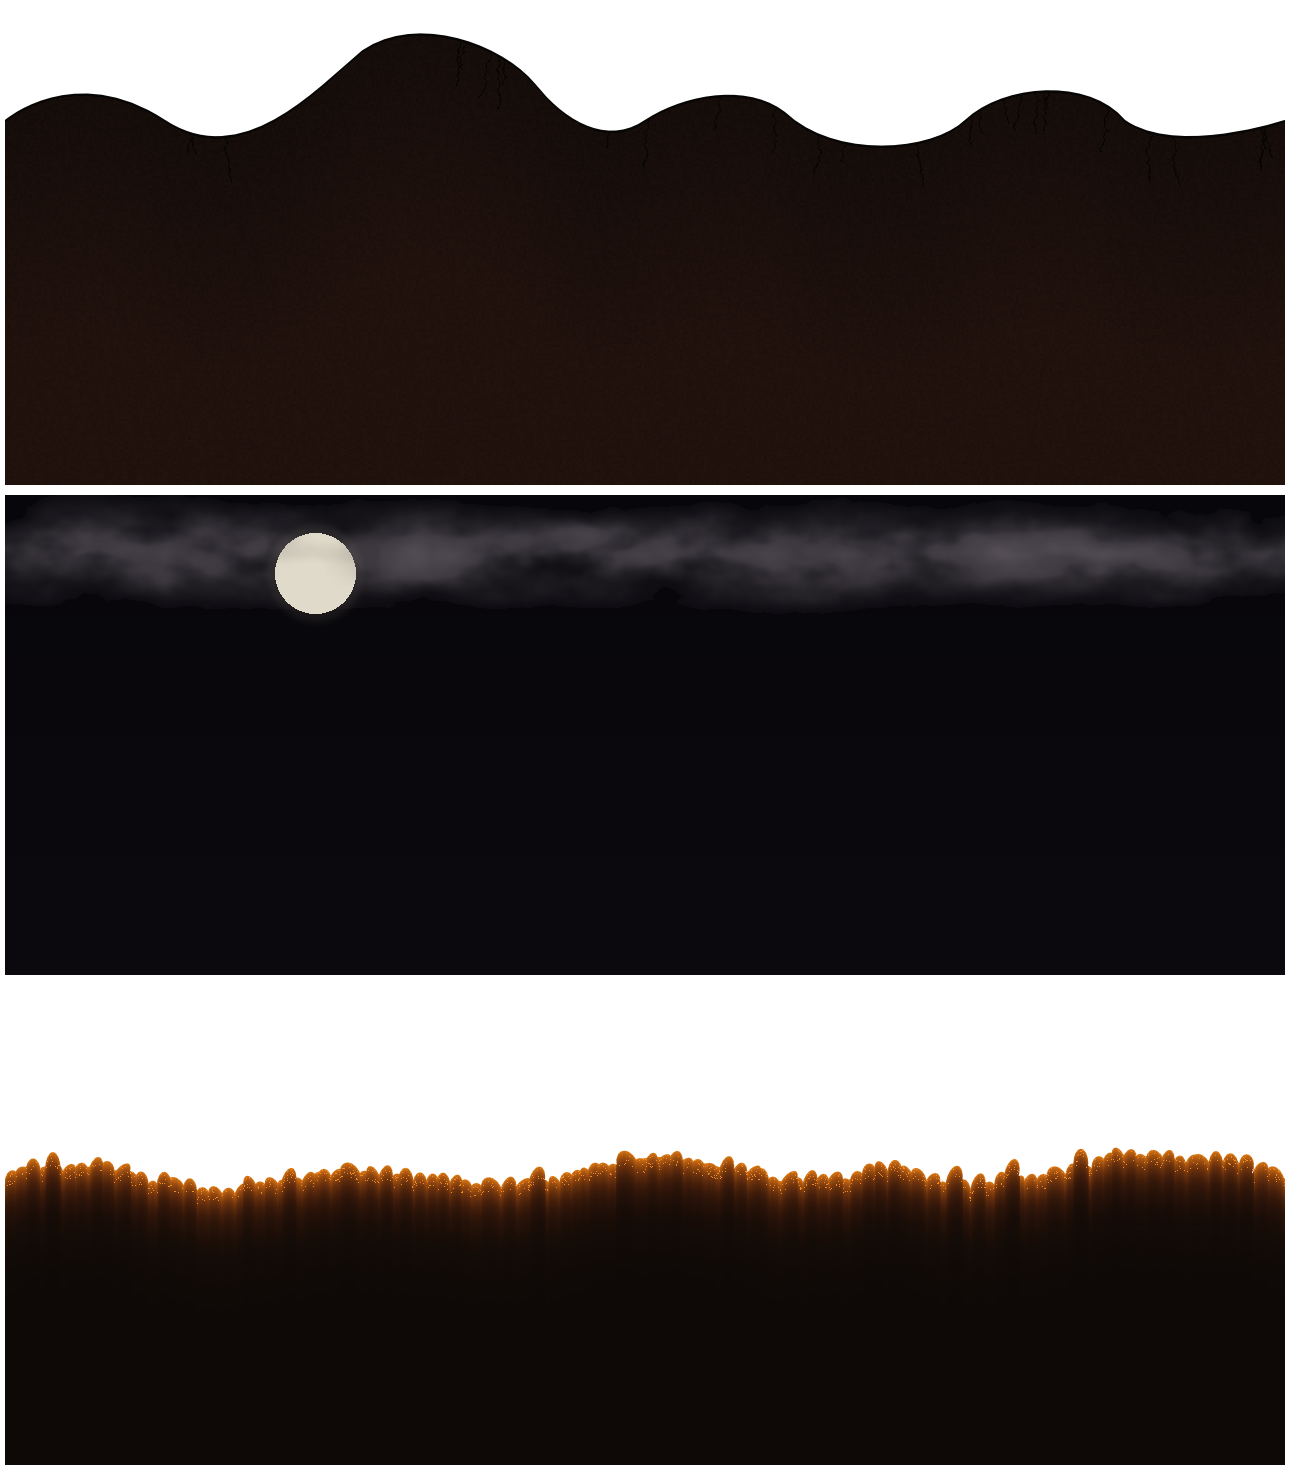
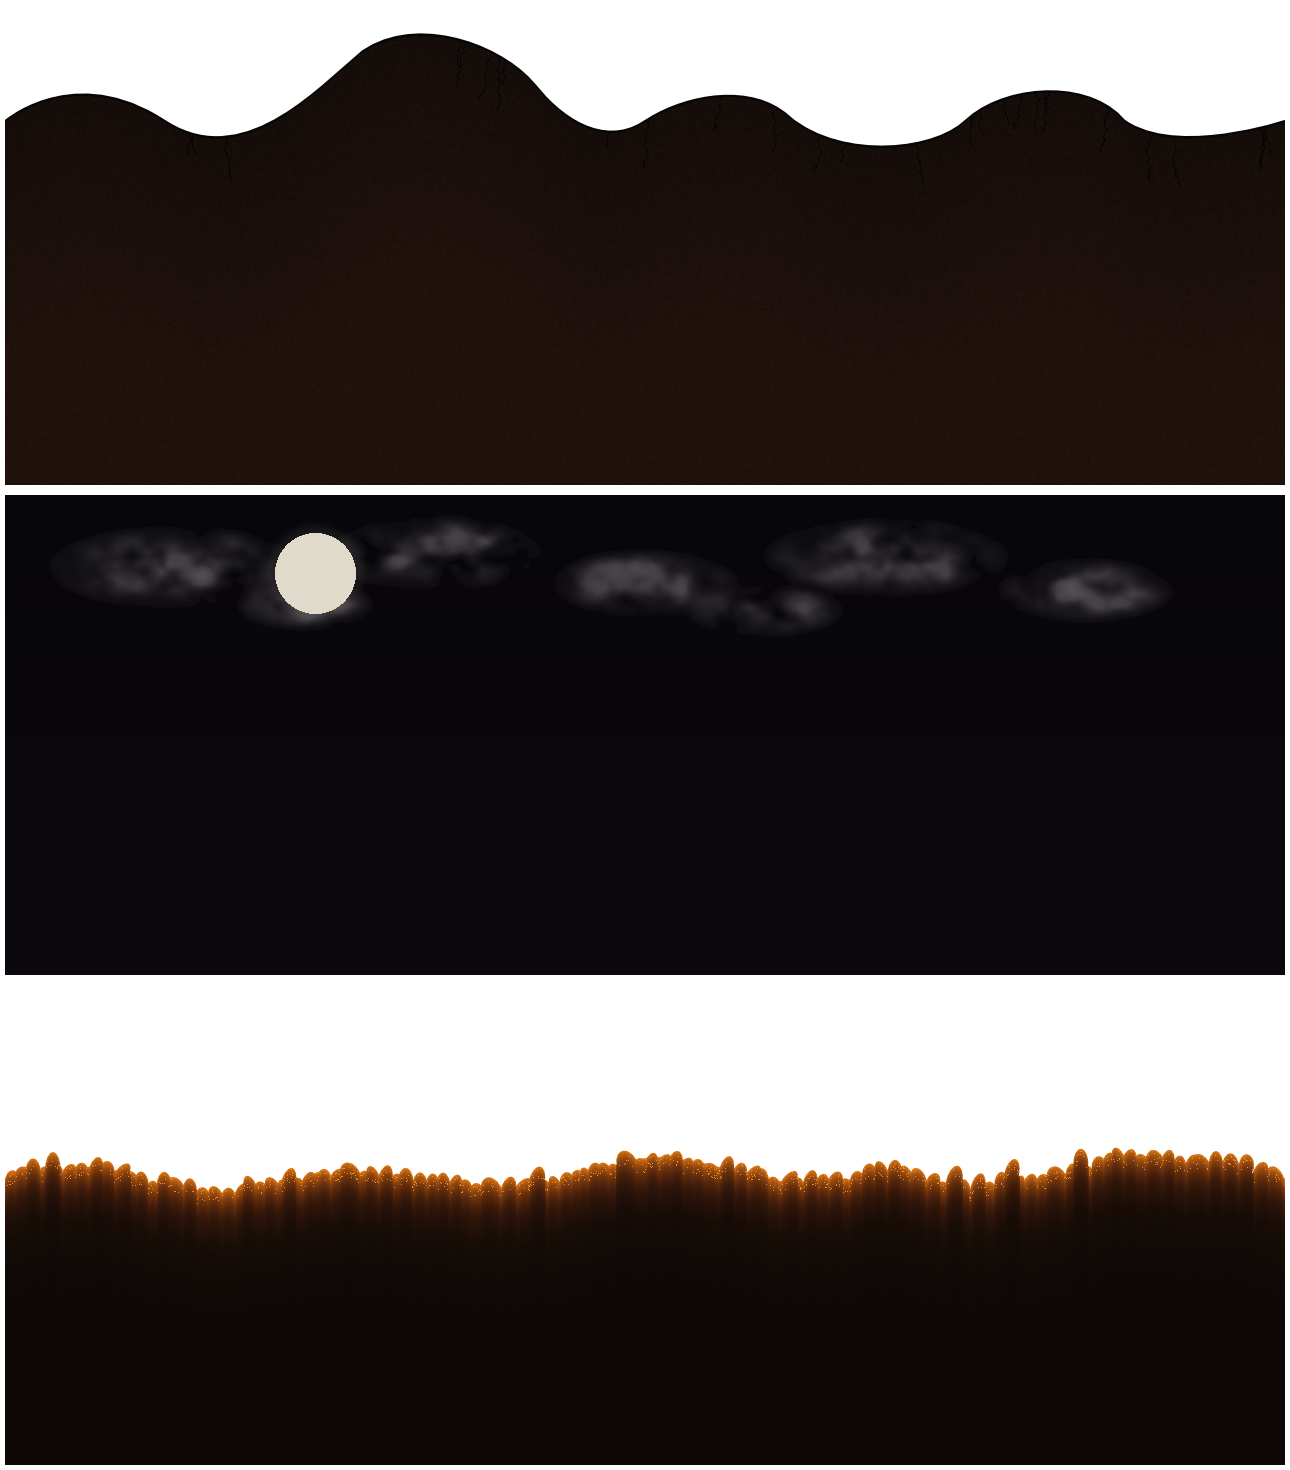
Skull Racer: eliminate minimap self-crossing properly, add start/finish tick, rebuild sky
Minimap: the heading-correction fix (previous commit) still left a
real self-crossing -- confirmed by the user's screenshot pointing right
at it. First correction attempt (nudging close-together POINTS apart
directly) made it worse: moving a point changes the two segments
touching it, which can cross other, previously-fine segments nearby --
fixing one near-miss created 11 new ones.

Real fix: when segment (i,i+1) actually crosses or comes within a
minimum separation of segment (j,j+1), the points strictly BETWEEN
them form a loop pinched shut at that point. Shrinking every point in
that loop toward the pinch point -- without moving the crossing
segments' own endpoints at all -- can only pull the loop further
inside its own boundary, never push it into anything new. Iterated
until no crossings or near-misses remain. Verified with the same
rigorous segment-intersection + closest-approach check used to
diagnose the original bug report: 0 true crossings, and the one
remaining sub-pixel coincidence a script flags turns out (checked
visually at full zoom) to be the shrunk loop having collapsed onto the
boundary line itself, not a second visible strand touching it.

Also added a white start/finish tick on the minimap, perpendicular to
the track's direction at the start point -- same idea as the real
road's own start-line marker (COLORS.START in resetRoad()).

images/background/sky.png: user's own fix for a seam artifact,
[…]

Changed region(s): [[0.2171, 0.3367, 1.0, 0.4286], [0.0, 0.3367, 0.2171, 0.398]]

diff --git a/racing/index.html b/racing/index.html
@@ -174,6 +174,7 @@
     }
     #minimap svg { display: block; width: 100%; height: 100%; }
     #minimap-track { fill: none; stroke: #00c8a0; stroke-width: 2; stroke-linejoin: round; opacity: 0.85; }
+    #minimap-start { stroke: #ffffff; stroke-width: 1.5; }
     #minimap-dot   { fill: #ffcc4d; stroke: #07111d; stroke-width: 0.75; }
 
     #touch-controls { display: none; } /* shown only in the mobile media query below */
@@ -252,6 +253,7 @@
         <div id="minimap">
           <svg viewBox="0 0 100 100" preserveAspectRatio="xMidYMid meet">
             <polyline id="minimap-track" points="" />
+            <line id="minimap-start" x1="0" y1="0" x2="0" y2="0" />
             <circle id="minimap-dot" r="3.5" cx="0" cy="0" />
           </svg>
         </div>
@@ -431,6 +433,7 @@
     //=========================================================================
 
     var minimapTrack  = Dom.get('minimap-track');
+    var minimapStart  = Dom.get('minimap-start');
     var minimapDot    = Dom.get('minimap-dot');
     var minimapPoints = []; // one entry per segment index: { mx, my } in the SVG's own 0-100 viewBox space
 
@@ -510,15 +513,112 @@
       var offY   = 4 + (92 - rangeZ * scale) / 2;
 
       minimapPoints = new Array(closed.length);
-      var outline = [];
+      var outline = []; // decimated (1-in-4) numeric {mx,my}, thousands of segments is needlessly heavy for an SVG attribute
       for (n = 0 ; n < closed.length ; n++) {
         var mx = offX + (closed[n].x - minX) * scale;
         var my = offY + (closed[n].z - minZ) * scale;
         minimapPoints[n] = { mx: mx, my: my };
-        if (n % 4 === 0) outline.push(mx.toFixed(1) + ',' + my.toFixed(1)); // decimated -- thousands of segments is needlessly heavy for an SVG attribute, 1-in-4 is still plenty smooth
+        if (n % 4 === 0) outline.push({ mx: mx, my: my });
       }
-      outline.push(outline[0]); // close the drawn line back to its own start
-      minimapTrack.setAttribute('points', outline.join(' '));
+
+      // Even with heading corrected above, this track's own curve sequence
+      // still brings two DIFFERENT, far-apart stretches of road within a
+      // hair of each other at one spot (confirmed stable across a wide
+      // sweep of HEADING_SCALE values -- not a tuning artifact, an actual
+      // near-miss in the reconstructed shape). At this map's tiny size that
+      // reads as the track crossing itself. Nudge any such pair apart
+      // directly, in this decimated display copy only (not minimapPoints,
+      // which the dot uses) -- the dot being a fraction of a pixel off the
+      // drawn line for the few frames it passes through that one spot is
+      // imperceptible; distorting the "true" reconstructed path everywhere
+      // else to avoid it would not be worth that trade.
+      // Tried nudging close-together POINTS apart directly first -- doesn't
+      // work, moving a point changes the two segments touching it, which
+      // can cross other, previously-fine segments nearby. Fixing one
+      // near-miss that way created 11 new ones. What's actually safe:
+      // when segment (i,i+1) truly crosses segment (j,j+1), the points
+      // strictly between them form a loop pinched shut at that crossing.
+      // Shrinking every point in that loop toward the crossing point
+      // itself (not moving the crossing segments' own endpoints at all)
+      // can only pull the loop further inside its own boundary -- it
+      // cannot introduce a new crossing with anything outside that loop.
+      function segIntersection(a1, a2, b1, b2) {
+        function cross(o,a,b) { return (a.mx-o.mx)*(b.my-o.my) - (a.my-o.my)*(b.mx-o.mx); }
+        var d1 = cross(b1,b2,a1), d2 = cross(b1,b2,a2), d3 = cross(a1,a2,b1), d4 = cross(a1,a2,b2);
+        if (!(((d1>0&&d2<0)||(d1<0&&d2>0)) && ((d3>0&&d4<0)||(d3<0&&d4>0)))) return null;
+        var x1=a1.mx,y1=a1.my,x2=a2.mx,y2=a2.my,x3=b1.mx,y3=b1.my,x4=b2.mx,y4=b2.my;
+        var denom = (x1-x2)*(y3-y4) - (y1-y2)*(x3-x4);
+        var t = ((x1-x3)*(y3-y4) - (y1-y3)*(x3-x4)) / denom;
+        return { mx: x1 + t*(x2-x1), my: y1 + t*(y2-y1) };
+      }
+      function pointToSeg(p, a, b) {
+        var abx=b.mx-a.mx, aby=b.my-a.my;
+        var t = ((p.mx-a.mx)*abx+(p.my-a.my)*aby)/(abx*abx+aby*aby||1);
+        t = Math.max(0, Math.min(1, t));
+        return { mx: a.mx+t*abx, my: a.my+t*aby };
+      }
+      // Actual crossings (segIntersection) covers a true X. A near-miss
+      // that never technically crosses -- two DIFFERENT stretches of road
+      // just passing close by coincidence -- reads exactly the same as a
+      // crossing at this map's tiny size and the line's own stroke width,
+      // so treat "comes within MIN_SEP" the same as "crosses" for pinch
+      // purposes, using the closest approach between the two segments as
+      // the pinch point instead of a true intersection point.
+      var MIN_SEP = 2.5;
+      function segPinchPoint(a1, a2, b1, b2) {
+        var ip = segIntersection(a1, a2, b1, b2);
+        if (ip) return ip;
+        var candidates = [
+          { p: a1, q: pointToSeg(a1, b1, b2) }, { p: a2, q: pointToSeg(a2, b1, b2) },
+          { p: pointToSeg(b1, a1, a2), q: b1 }, { p: pointToSeg(b2, a1, a2), q: b2 }
+        ];
+        var best = null, bestDist = Infinity;
+        for (var c = 0 ; c < candidates.length ; c++) {
+          var dx = candidates[c].p.mx-candidates[c].q.mx, dy = candidates[c].p.my-candidates[c].q.my;
+          var d = Math.sqrt(dx*dx+dy*dy);
+          if (d < bestDist) { bestDist = d; best = candidates[c]; }
+        }
+        if (bestDist >= MIN_SEP) return null;
+        return { mx: (best.p.mx+best.q.mx)/2, my: (best.p.my+best.q.my)/2 };
+      }
+      for (var iter = 0 ; iter < 60 ; iter++) {
+        var fixed = false;
+        for (var i = 0 ; i < outline.length - 1 && !fixed ; i++) {
+          for (var j = i + 2 ; j < outline.length - 1 ; j++) {
+            if (i === 0 && j === outline.length - 2) continue; // the deliberate closing seam, not a real crossing
+            var pinch = segPinchPoint(outline[i], outline[i+1], outline[j], outline[j+1]);
+            if (pinch) {
+              // Only the STRICTLY INTERIOR points move, toward the pinch
+              // point -- segments (i,i+1) and (j,j+1) themselves (the loop's
+              // own boundary) are never touched, so this can only pull the
+              // loop further inside itself, never push it into anything new.
+              for (var k = i + 1 ; k <= j ; k++) {
+                outline[k] = { mx: pinch.mx + (outline[k].mx - pinch.mx) * 0.7, my: pinch.my + (outline[k].my - pinch.my) * 0.7 };
+              }
+              fixed = true;
+              break;
+            }
+          }
+        }
+        if (!fixed) break; // nothing left to fix
+      }
+
+      var outlineAttr = outline.map(function(p) { return p.mx.toFixed(1) + ',' + p.my.toFixed(1); });
+      outlineAttr.push(outlineAttr[0]); // close the drawn line back to its own start
+      minimapTrack.setAttribute('points', outlineAttr.join(' '));
+
+      // Start/finish marker -- a short tick perpendicular to the track's
+      // direction at the start point, same idea as the white line across
+      // the actual road (see COLORS.START in resetRoad()).
+      var p0 = minimapPoints[0], p1 = minimapPoints[1];
+      var tx = p1.mx - p0.mx, ty = p1.my - p0.my;
+      var tlen = Math.sqrt(tx*tx + ty*ty) || 1;
+      var px = -ty/tlen, py = tx/tlen; // perpendicular to travel direction
+      var tickLen = 3;
+      minimapStart.setAttribute('x1', p0.mx - px*tickLen);
+      minimapStart.setAttribute('y1', p0.my - py*tickLen);
+      minimapStart.setAttribute('x2', p0.mx + px*tickLen);
+      minimapStart.setAttribute('y2', p0.my + py*tickLen);
     }
 
     // Engine sound via the Web Audio API, not a plain <audio loop> element --

diff --git a/racing/v4.final.html b/racing/v4.final.html
@@ -174,6 +174,7 @@
     }
     #minimap svg { display: block; width: 100%; height: 100%; }
     #minimap-track { fill: none; stroke: #00c8a0; stroke-width: 2; stroke-linejoin: round; opacity: 0.85; }
+    #minimap-start { stroke: #ffffff; stroke-width: 1.5; }
     #minimap-dot   { fill: #ffcc4d; stroke: #07111d; stroke-width: 0.75; }
 
     #touch-controls { display: none; } /* shown only in the mobile media query below */
@@ -252,6 +253,7 @@
         <div id="minimap">
           <svg viewBox="0 0 100 100" preserveAspectRatio="xMidYMid meet">
             <polyline id="minimap-track" points="" />
+            <line id="minimap-start" x1="0" y1="0" x2="0" y2="0" />
             <circle id="minimap-dot" r="3.5" cx="0" cy="0" />
           </svg>
         </div>
@@ -431,6 +433,7 @@
     //=========================================================================
 
     var minimapTrack  = Dom.get('minimap-track');
+    var minimapStart  = Dom.get('minimap-start');
     var minimapDot    = Dom.get('minimap-dot');
     var minimapPoints = []; // one entry per segment index: { mx, my } in the SVG's own 0-100 viewBox space
 
@@ -510,15 +513,112 @@
       var offY   = 4 + (92 - rangeZ * scale) / 2;
 
       minimapPoints = new Array(closed.length);
-      var outline = [];
+      var outline = []; // decimated (1-in-4) numeric {mx,my}, thousands of segments is needlessly heavy for an SVG attribute
       for (n = 0 ; n < closed.length ; n++) {
         var mx = offX + (closed[n].x - minX) * scale;
         var my = offY + (closed[n].z - minZ) * scale;
         minimapPoints[n] = { mx: mx, my: my };
-        if (n % 4 === 0) outline.push(mx.toFixed(1) + ',' + my.toFixed(1)); // decimated -- thousands of segments is needlessly heavy for an SVG attribute, 1-in-4 is still plenty smooth
+        if (n % 4 === 0) outline.push({ mx: mx, my: my });
       }
-      outline.push(outline[0]); // close the drawn line back to its own start
-      minimapTrack.setAttribute('points', outline.join(' '));
+
+      // Even with heading corrected above, this track's own curve sequence
+      // still brings two DIFFERENT, far-apart stretches of road within a
+      // hair of each other at one spot (confirmed stable across a wide
+      // sweep of HEADING_SCALE values -- not a tuning artifact, an actual
+      // near-miss in the reconstructed shape). At this map's tiny size that
+      // reads as the track crossing itself. Nudge any such pair apart
+      // directly, in this decimated display copy only (not minimapPoints,
+      // which the dot uses) -- the dot being a fraction of a pixel off the
+      // drawn line for the few frames it passes through that one spot is
+      // imperceptible; distorting the "true" reconstructed path everywhere
+      // else to avoid it would not be worth that trade.
+      // Tried nudging close-together POINTS apart directly first -- doesn't
+      // work, moving a point changes the two segments touching it, which
+      // can cross other, previously-fine segments nearby. Fixing one
+      // near-miss that way created 11 new ones. What's actually safe:
+      // when segment (i,i+1) truly crosses segment (j,j+1), the points
+      // strictly between them form a loop pinched shut at that crossing.
+      // Shrinking every point in that loop toward the crossing point
+      // itself (not moving the crossing segments' own endpoints at all)
+      // can only pull the loop further inside its own boundary -- it
+      // cannot introduce a new crossing with anything outside that loop.
+      function segIntersection(a1, a2, b1, b2) {
+        function cross(o,a,b) { return (a.mx-o.mx)*(b.my-o.my) - (a.my-o.my)*(b.mx-o.mx); }
+        var d1 = cross(b1,b2,a1), d2 = cross(b1,b2,a2), d3 = cross(a1,a2,b1), d4 = cross(a1,a2,b2);
+        if (!(((d1>0&&d2<0)||(d1<0&&d2>0)) && ((d3>0&&d4<0)||(d3<0&&d4>0)))) return null;
+        var x1=a1.mx,y1=a1.my,x2=a2.mx,y2=a2.my,x3=b1.mx,y3=b1.my,x4=b2.mx,y4=b2.my;
+        var denom = (x1-x2)*(y3-y4) - (y1-y2)*(x3-x4);
+        var t = ((x1-x3)*(y3-y4) - (y1-y3)*(x3-x4)) / denom;
+        return { mx: x1 + t*(x2-x1), my: y1 + t*(y2-y1) };
+      }
+      function pointToSeg(p, a, b) {
+        var abx=b.mx-a.mx, aby=b.my-a.my;
+        var t = ((p.mx-a.mx)*abx+(p.my-a.my)*aby)/(abx*abx+aby*aby||1);
+        t = Math.max(0, Math.min(1, t));
+        return { mx: a.mx+t*abx, my: a.my+t*aby };
+      }
+      // Actual crossings (segIntersection) covers a true X. A near-miss
+      // that never technically crosses -- two DIFFERENT stretches of road
+      // just passing close by coincidence -- reads exactly the same as a
+      // crossing at this map's tiny size and the line's own stroke width,
+      // so treat "comes within MIN_SEP" the same as "crosses" for pinch
+      // purposes, using the closest approach between the two segments as
+      // the pinch point instead of a true intersection point.
+      var MIN_SEP = 2.5;
+      function segPinchPoint(a1, a2, b1, b2) {
+        var ip = segIntersection(a1, a2, b1, b2);
+        if (ip) return ip;
+        var candidates = [
+          { p: a1, q: pointToSeg(a1, b1, b2) }, { p: a2, q: pointToSeg(a2, b1, b2) },
+          { p: pointToSeg(b1, a1, a2), q: b1 }, { p: pointToSeg(b2, a1, a2), q: b2 }
+        ];
+        var best = null, bestDist = Infinity;
+        for (var c = 0 ; c < candidates.length ; c++) {
+          var dx = candidates[c].p.mx-candidates[c].q.mx, dy = candidates[c].p.my-candidates[c].q.my;
+          var d = Math.sqrt(dx*dx+dy*dy);
+          if (d < bestDist) { bestDist = d; best = candidates[c]; }
+        }
+        if (bestDist >= MIN_SEP) return null;
+        return { mx: (best.p.mx+best.q.mx)/2, my: (best.p.my+best.q.my)/2 };
+      }
+      for (var iter = 0 ; iter < 60 ; iter++) {
+        var fixed = false;
+        for (var i = 0 ; i < outline.length - 1 && !fixed ; i++) {
+          for (var j = i + 2 ; j < outline.length - 1 ; j++) {
+            if (i === 0 && j === outline.length - 2) continue; // the deliberate closing seam, not a real crossing
+            var pinch = segPinchPoint(outline[i], outline[i+1], outline[j], outline[j+1]);
+            if (pinch) {
+              // Only the STRICTLY INTERIOR points move, toward the pinch
+              // point -- segments (i,i+1) and (j,j+1) themselves (the loop's
+              // own boundary) are never touched, so this can only pull the
+              // loop further inside itself, never push it into anything new.
+              for (var k = i + 1 ; k <= j ; k++) {
+                outline[k] = { mx: pinch.mx + (outline[k].mx - pinch.mx) * 0.7, my: pinch.my + (outline[k].my - pinch.my) * 0.7 };
+              }
+              fixed = true;
+              break;
+            }
+          }
+        }
+        if (!fixed) break; // nothing left to fix
+      }
+
+      var outlineAttr = outline.map(function(p) { return p.mx.toFixed(1) + ',' + p.my.toFixed(1); });
+      outlineAttr.push(outlineAttr[0]); // close the drawn line back to its own start
+      minimapTrack.setAttribute('points', outlineAttr.join(' '));
+
+      // Start/finish marker -- a short tick perpendicular to the track's
+      // direction at the start point, same idea as the white line across
+      // the actual road (see COLORS.START in resetRoad()).
+      var p0 = minimapPoints[0], p1 = minimapPoints[1];
+      var tx = p1.mx - p0.mx, ty = p1.my - p0.my;
+      var tlen = Math.sqrt(tx*tx + ty*ty) || 1;
+      var px = -ty/tlen, py = tx/tlen; // perpendicular to travel direction
+      var tickLen = 3;
+      minimapStart.setAttribute('x1', p0.mx - px*tickLen);
+      minimapStart.setAttribute('y1', p0.my - py*tickLen);
+      minimapStart.setAttribute('x2', p0.mx + px*tickLen);
+      minimapStart.setAttribute('y2', p0.my + py*tickLen);
     }
 
     // Engine sound via the Web Audio API, not a plain <audio loop> element --
